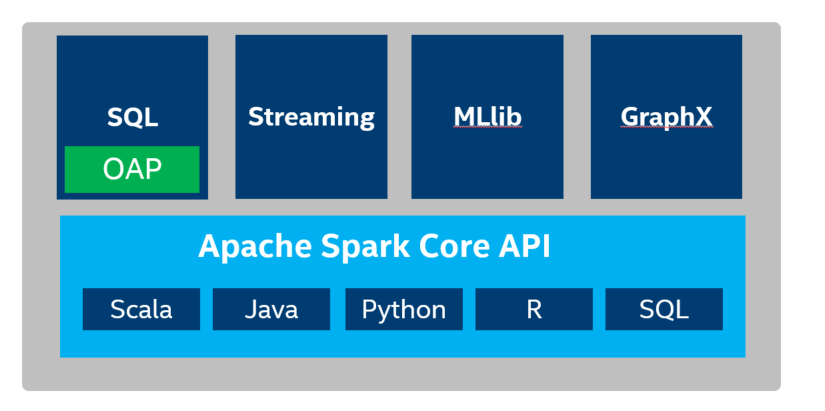
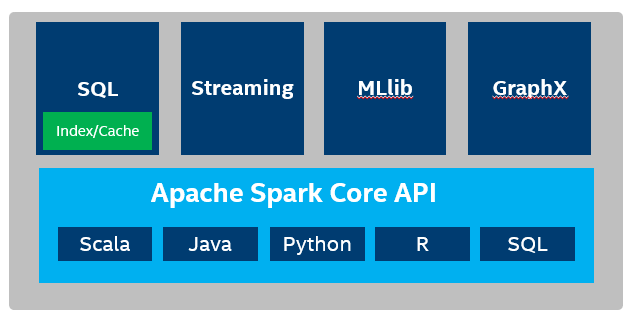
restructure documentation concepts

diff --git a/oap-cache/oap/docs/User-Guide.md b/oap-cache/oap/docs/User-Guide.md
@@ -1,40 +1,40 @@
-# OAP-Cache User Guide
+# User Guide
 
 * [Prerequisites](#Prerequisites)
-* [Getting Started with OAP-Cache](#Getting-Started-with-OAP-Cache)
+* [Getting Started](#Getting-Started)
 * [Configuration for YARN Cluster Mode](#Configuration-for-YARN-Cluster-Mode)
 * [Configuration for Spark Standalone Mode](#Configuration-for-Spark-Standalone-Mode)
-* [Working with OAP-Cache Index](#Working-with-OAP-Cache-Index)
-* [Working with OAP-Cache Cache](#Working-with-OAP-Cache-Cache)
-* [Run TPC-DS Benchmark for OAP-Cache Cache](#Run-TPC-DS-Benchmark-for-OAP-Cache)
+* [Working with SQL Index](#Working-with-SQL-Index)
+* [Working with SQL Data Source Cache](#Working-with-SQL-Data-Source-Cache)
+* [Run TPC-DS Benchmark](#Run-TPC-DS-Benchmark)
 
 
 ## Prerequisites
 
-OAP-Cache on Spark requires a working Hadoop cluster with YARN and Spark. Running Spark on YARN requires a binary distribution of Spark, which is built with YARN support. If you don't want to build Spark by yourself, we have pre-built [Spark-2.4.4](https://github.com/Intel-bigdata/spark/releases/download/v2.4.4-intel-oap-0.8/spark-2.4.4-bin-hadoop2.7-intel-oap-0.8.tgz ).
+SQL Index and Data Source Cache on Spark requires a working Hadoop cluster with YARN and Spark. Running Spark on YARN requires a binary distribution of Spark, which is built with YARN support. If you don't want to build Spark by yourself, we have pre-built [Spark-2.4.4](https://github.com/Intel-bigdata/spark/releases/download/v2.4.4-intel-oap-0.8/spark-2.4.4-bin-hadoop2.7-intel-oap-0.8.tgz ).
 
-## Getting Started with OAP-Cache
+## Getting Started
 
-### Building OAP-Cache
+### Building
 
-Download our pre-built OAP-Cache jar [oap-product-0.8.0-bin-spark-2.4.4.tar.gz](https://github.com/Intel-bigdata/OAP/releases/download/v0.8.0-spark-2.4.4/oap-product-0.8.0-bin-spark-2.4.4.tar.gz) to your working node, unzip it and put the jars to your working directory such as `/home/oap/jars/`, and put the `oap-common-0.8.0-with-spark-2.4.4.jar` to the directory `$SPARK_HOME/jars/`. If you’d like to build OAP-Cache from source code, please refer to [Developer Guide](Developer-Guide.md) for the detailed steps.
+Download our pre-built jar [oap-product-0.8.0-bin-spark-2.4.4.tar.gz](https://github.com/Intel-bigdata/OAP/releases/download/v0.8.0-spark-2.4.4/oap-product-0.8.0-bin-spark-2.4.4.tar.gz) to your working node, unzip it and put the jars to your working directory such as `/home/oap/jars/`, and put the `oap-common-0.8.0-with-spark-2.4.4.jar` to the directory `$SPARK_HOME/jars/`. If you’d like to build from source code, please refer to [Developer Guide](Developer-Guide.md) for the detailed steps.
 
-### Spark Configurations for OAP-Cache
+### Spark Configurations
 
 Users usually test and run Spark SQL or Scala scripts in Spark Shell,  which launches Spark applications on YRAN with ***client*** mode. In this section, we will start with Spark Shell then introduce other use scenarios. 
 
-Before you run ` . $SPARK_HOME/bin/spark-shell `, you need to configure Spark for OAP-Cache integration. You need to add or update the following configurations in the Spark configuration file `$SPARK_HOME/conf/spark-defaults.conf` on your working node.
+Before you run ` . $SPARK_HOME/bin/spark-shell `, you need to configure Spark for integration. You need to add or update the following configurations in the Spark configuration file `$SPARK_HOME/conf/spark-defaults.conf` on your working node.
 
 ```
 spark.sql.extensions              org.apache.spark.sql.OapExtensions
-# absolute path of OAP-Cache jar on your working node
+# absolute path of the jar on your working node
 spark.files                       /home/oap/jars/oap-cache-0.8.0-with-spark-2.4.4.jar
-# relative path of OAP-Cache jar
+# relative path of the jar
 spark.executor.extraClassPath     ./oap-cache-0.8.0-with-spark-2.4.4.jar
-# absolute path of OAP-Cache jar on your working node
+# absolute path of the jar on your working node
 spark.driver.extraClassPath       /home/oap/jars/oap-cache-0.8.0-with-spark-2.4.4.jar
 ```
-### Verify Spark with OAP-Cache Integration 
+### Verify Integration 
 
 After configuration, you can follow these steps to verify the OAP integration is working using Spark Shell.
 
@@ -65,7 +65,7 @@ This test creates an index for a table and then shows it. If there are no errors
 
 ## Configuration for YARN Cluster Mode
 
-Spark Shell, Spark SQL CLI and Thrift Sever run Spark application in ***client*** mode. While Spark Submit tool can run Spark application in ***client*** or ***cluster*** mode deciding by --deploy-mode parameter. [Getting Started with OAP-Cache](#Getting-Started-with-OAP-Cache) session has shown the configurations needed for ***client*** mode. If you are running Spark Submit tool in ***cluster*** mode, you need to follow the below configuration steps instead.
+Spark Shell, Spark SQL CLI and Thrift Sever run Spark application in ***client*** mode. While Spark Submit tool can run Spark application in ***client*** or ***cluster*** mode deciding by --deploy-mode parameter. [Getting Started](#Getting-Started) session has shown the configurations needed for ***client*** mode. If you are running Spark Submit tool in ***cluster*** mode, you need to follow the below configuration steps instead.
 
 Add the following OAP configuration settings to `$SPARK_HOME/conf/spark-defaults.conf` on your working node before running `spark-submit` in ***cluster*** mode.
 ```
@@ -92,7 +92,7 @@ spark.executor.extraClassPath      /home/oap/jars/oap-cache-0.8.0-with-spark-2.4
 spark.driver.extraClassPath        /home/oap/jars/oap-cache-0.8.0-with-spark-2.4.4.jar
 ```
 
-## Working with OAP-Cache Index
+## Working with SQL Index
 
 After a successful OAP integration, you can use OAP SQL DDL to manage table indexes. The DDL operations include `index create`, `drop`, `refresh`, and `show`. Test these functions using the following examples in Spark Shell.
 
@@ -118,7 +118,7 @@ Use SHOW OINDEX command to show all the created indexes on a specified table.
 ```
 > spark.sql("show oindex from oap_test").show()
 ```
-### Use OAP-Cache Index
+### Use Index
 
 Using index in a query is transparent. When SQL queries have filter conditions on the column(s) which can take advantage of the index to filter the data scan, the index will automatically be applied to the execution of Spark SQL. The following example will automatically use the underlayer index created on column "a".
 ```
@@ -131,9 +131,9 @@ Use DROP OINDEX command to drop a named index.
 ```
 > spark.sql("drop oindex index1 on oap_test")
 ```
-## Working with OAP-Cache Cache
+## Working with Data Source Cache
 
-OAP-Cache Cache can provide input data cache functionality to the executor. When using the cache data among different SQL queries, configure cache to allow different SQL queries to use the same executor process. Do this by running your queries through the Spark ThriftServer as shown below. For cache media, we support both DRAM and Intel DCPMM which means you can choose to cache data in DRAM or Intel DCPMM if you have DCPMM configured in hardware.
+Data Source Cache can provide input data cache functionality to the executor. When using the cache data among different SQL queries, configure cache to allow different SQL queries to use the same executor process. Do this by running your queries through the Spark ThriftServer as shown below. For cache media, we support both DRAM and Intel DCPMM which means you can choose to cache data in DRAM or Intel DCPMM if you have DCPMM configured in hardware.
 
 ### Use DRAM Cache 
 
@@ -160,7 +160,7 @@ OAP-Cache Cache can provide input data cache functionality to the executor. When
 
    Launch Spark Thrift Server, and use the Beeline command line tool to connect to the Thrift Server to execute DDL or DML operations. The data cache will automatically take effect for Parquet or ORC file sources. 
    
-   The rest of this section will show you how to do a quick verification of cache functionality. It will reuse the database metastore created in the [Working with OAP-Cache Index](#Working-with-OAP-Cache-Index) section, which creates the `oap_test` table definition. In production, Spark Thrift Server will have its own metastore database directory or metastore service and use DDL's through Beeline for creating your tables.
+   The rest of this section will show you how to do a quick verification of cache functionality. It will reuse the database metastore created in the [Working with Data Source Cache Index](#Working-with-SQL-Index) section, which creates the `oap_test` table definition. In production, Spark Thrift Server will have its own metastore database directory or metastore service and use DDL's through Beeline for creating your tables.
 
    When you run ```spark-shell``` to create the `oap_test` table, `metastore_db` will be created in the directory where you ran '$SPARK_HOME/bin/spark-shell'. Go to that directory and execute the following command to launch Thrift JDBC server.
 
@@ -251,7 +251,7 @@ The following are required to configure OAP to use DCPMM cache.
      make package
      sudo rpm -i libvmemcache*.rpm
 ```
-- OAP-Cache use Plasma as a node-level external cache service, the benefit of using external cache is data could be shared across process boundaries, you can refer to [Using-Plasma-As-Cache](./Using-Plasma-As-Cache.md) to enable this feature.  
+- Data Source Cache use Plasma as a node-level external cache service, the benefit of using external cache is data could be shared across process boundaries, you can refer to [Using-Plasma-As-Cache](./Using-Plasma-As-Cache.md) to enable this feature.  
 [Plasma](http://arrow.apache.org/blog/2017/08/08/plasma-in-memory-object-store/) is a high-performance shared-memory object store, it's a component of [Apache Arrow](https://github.com/apache/arrow). We have modified Plasma to support DCPMM, and open source on [Intel-bigdata Arrow](https://github.com/Intel-bigdata/arrow/tree/oap-master) repo.  You can run follow commands to install libarrow.so, libplasma.so, libplasma_java.so, plasma-store-server, arrow-plasma.jar to your machine:
     ```
     git clone https://github.com/Intel-bigdata/arrow.git
@@ -266,7 +266,7 @@ The following are required to configure OAP to use DCPMM cache.
     cd ../../java
     mvn clean -q -DskipTests install
     ``` 
-Or you can refer to [OAP-Cache-Developer-Guide](../../../docs/Developer-Guide.md), there is a shell script to help you install these dependencies automatically.
+Or you can refer to [Developer-Guide](../../../docs/Developer-Guide.md), there is a shell script to help you install these dependencies automatically.
 
 #### Configure for NUMA
 
@@ -293,7 +293,7 @@ Create `persistent-memory.xml` in `$SPARK_HOME/conf/` if it doesn't exist. Use t
 </persistentMemoryPool>
 ```
 
-#### Configure for Spark/OAP-Cache to enable DCPMM cache
+#### Configure to enable DCPMM cache
 
 Make the following configuration changes in `$SPARK_HOME/conf/spark-defaults.conf`.
 
@@ -383,7 +383,7 @@ spark.sql.oap.fiberCache.persistent.memory.initial.size  256g
 
 #### Vmemcache cache
 
-The vmemcache cache strategy is based on libvmemcache (buffer based LRU cache), which provides a key-value store API. Follow these steps to enable vmemcache support in OAP-Cache.
+The vmemcache cache strategy is based on libvmemcache (buffer based LRU cache), which provides a key-value store API. Follow these steps to enable vmemcache support in Data Source Cache.
 To use this strategy, follow [prerequisites](#prerequisites-1) to set up DCPMM hardware and vmemcache library correctly, then refer below configurations to apply vmemcache cache strategy in your workload.
 
 For Parquet data format, add these conf options:
@@ -437,7 +437,7 @@ spark.sql.oap.cache.external.client.pool.size              10
 
 ### Index/Data cache separation
 
-OAP-Cache now supports different cache strategies for DRAM and DCPMM. To optimize the cache media utilization, you can enable cache separation of data and index with same or different cache media. When Sharing same media, data cache and index cache will use different fiber cache ratio.
+Data Source Cache now supports different cache strategies for DRAM and DCPMM. To optimize the cache media utilization, you can enable cache separation of data and index with same or different cache media. When Sharing same media, data cache and index cache will use different fiber cache ratio.
 
 Here we list 4 different kinds of configs for index/cache separation, if you choose one of them, please add corresponding configs to `spark-defaults.conf`.
 1. DRAM(`offheap`) as cache media, `guava` strategy as index, and data cache back end. 
@@ -539,7 +539,7 @@ Verify NUMA binding status by confirming keywords like `numactl --cpubind=1 --me
 
 Check DCPMM cache size by checking disk space with `df -h`. For Guava/Non-evictable strategies, the command will show disk space usage increases along with workload execution. For vmemcache strategy, disk usage will reach the initial cache size once the DCPMM cache is initialized and will not change during workload execution.
 
-## Run TPC-DS Benchmark for OAP-Cache
+## Run TPC-DS Benchmark
 
 This section provides instructions and tools for running TPC-DS queries to evaluate the cache performance of various configurations. The TPC-DS suite has many queries and we select 9 I/O intensive queries to simplify performance evaluation.
 

diff --git a/oap-cache/oap/docs/Architect-Overview.md b/oap-cache/oap/docs/Architect-Overview.md
@@ -1,0 +1,97 @@
+# Architecture Overview
+
+
+* [Introduction](#introduction)
+* [Usage Scenarios](#Usage-Scenarios)
+* [Architecture](#architecture)
+* [Features](#Features)
+
+
+
+## Introduction
+
+Apache Spark is a unified analytics engine for large-scale data processing. Spark SQL* is the most popular component of Apache Spark* , and it is widely used to process large scale structured data in data center. However, Spark SQL still suffers from stability and performance challenges in a highly dynamic environment with ultra large scale data.
+
+SQL Index and Data Source Cache are designed to leverage user defined indices and smart fine-grained in-memory data caching for boosting Spark SQL performance, and can address the performance issues of some use cases.
+
+
+![OAP-INTRODUCTION](./image/OAP-Introduction.PNG)
+
+## Usage Scenarios
+
+### Usage Scenario 1 -- Interactive queries
+
+Most customers adopt Spark SQL as a batch processing engine. Unfortunately, customers would discover that it is too hard to separate batch processing and interactive use cases. Interactive queries need to return the data in seconds or even sub-seconds instead of the minutes or hours of batch processing. This is a difficult challenge for the current Spark SQL implementation.
+
+For example, the following interactive query attempts to filter out a very small result set from a huge fact table.
+
+```
+select query, term, userid, planid, unitid, winfoid, bmm_type, cmatch, charge, wctrl, target_url, audience_targeting_tag, is_url_targeting_adv, pluto_idea_type
+from basedata.fc_ad_wise
+where (event_day='20180701' and query='xxx' and winfoid='65648180412')
+limit 10
+```
+
+Interactive queries usually process a large data set but return a small portion of data filtering for a specific condition. By creating and storing a full B+ Tree index for key columns and using a smart fine-grained in-memory data caching strategy, we can boost Spark SQL interactive queries to seconds and even sub-seconds.
+
+By properly using index and cache, the performance of some interactive queries can possibly be improved by order of magnitude.
+
+### Usage Scenario 2 -- Batch processing jobs 
+
+Customers usually use Spark SQL for Business Analytics in Data Warehousing. SQL Data Source Cache can speed up batch processing jobs with 2 cache strategies:
+
+1. Automatically cache hot data.
+2. Specifically cache hot tables. 
+
+Users can choose either strategy based on their need.
+
+## Architecture
+
+The following diagram shows the design architecture.
+
+![ARCHITECTURE](./image/OAP-Architecture.PNG)
+
+SQL Index and Data Source Cache acts as a `.jar` plug-in for Spark SQL.
+
+- We designed the compatible adapter layer for three columnar storage file formats: 
+
+   1. parquet
+   2. orc
+   3. oap(parquet-like file format defined by OAP).
+
+   SQL Index and Data Source Cache have a ***Unified Cache Representation*** for different columnar storage formats and a fine-grained cache unit for one column of a RowGroup.
+
+- OAP's two major optimization functionalities (indexing and caching) are based on unified representation and the adapter. 
+   - Indices can be created on one or multiple columns of a data file. 
+   - Currently, Data Source Cache only caches decompressed and decoding data, and will support raw data in the future. Generally, the server's DRAM is used as the cache medium. [DCPMM](https://www.intel.com/content/www/us/en/architecture-and-technology/optane-dc-persistent-memory.html) can also be used as the cache medium as it will provide a more cost effective solution for the requirements of a high performance environment.
+
+- Both indexing and caching as ***Optimizer & Execution*** are transparent for users. See the [Features](#Features) section for details.
+
+- Spark ***ThriftServer***\* is a good use case for OAP, because ThriftServer launches Spark Applications which can cache hot data for a long time in the background, and it also accepts query requests from different clients at the same time. Of course, using bin/spark-sql, bin/spark-shell or bin/pyspark can also use OAP, but usually only for interactive test situations.
+
+## Features
+
+Use indexing and caching to improve Spark SQL performance on ad-hoc queries and batch processing jobs.
+
+### Indexing
+
+Users can use SQL DDL(create/drop/refresh/check/show index) to use indexing. Once users create indices using DDL, index files mainly composed of index data and statistics will be generated in a specific directory. When queries are executed, analyzing index files for boost performance is transparent to users.
+
+- BTREE, BITMAP Index is an optimization that is widely used in traditional databases. We also adopt these two index types in the project. BTREE indexing is intended for datasets that have a lot of distinct values, and are distributed randomly, such as telephone numbers or ID numbers. BitMap index is intended for datasets with a limited total amount of distinct values, such as state or age.
+
+- Statistics are located in the Index file, after all the index data are written into the index file. Sometimes, reading indices could bring extra cost for some queries. So we also support four statistics (MinMax, Bloom Filter, SampleBase and PartByValue) to help filter. With statistics, we can make sure we only use indices if we can possibly improve the execution.
+
+### Caching
+
+Caching is another core feature of OAP. It is also transparent to users. Data Source Cache can automatically load frequently queried (hot) data, and evict data automatically according to the LRU policy when cache is full. Data Source Cache has the following characteristics:
+
+- Off-Heap memory. The Data Source Cache uses off-heap memory and avoids the JVM GC. It can also use [DCPMM](https://www.intel.com/content/www/us/en/architecture-and-technology/optane-dc-persistent-memory.html) as high-performance, high-capacity, low-cost memory
+- Cache-Locality. Data Source Cache can schedule computing tasks to the executor which holds needed data in cache, by implementing a cache aware mechanism based on Spark driver and executors communication.
+- Cache granularity. A column in one RowGroup (equivalent to Stripe in ORC) of a column-oriented storage format file is loaded into a basic cache unit which is called a "Fiber" in OAP.
+- Cache Eviction. Data Source Cache cache eviction uses LRU policy, and automatically caches and evicts data transparently to end user.
+- Cache configured tables. Data Source Cache also supports caching specific tables by configuring items according to actual situations, these tables are usually hot tables.
+
+
+
+
+

diff --git a/oap-cache/oap/docs/Developer-Guide.md b/oap-cache/oap/docs/Developer-Guide.md
@@ -1,14 +1,14 @@
-# OAP-Cache Developer Guide
+# Developer Guide
 
-* [Build OAP-Cache](#Build-OAP-Cache)
+* [Build](#Build)
 * [Integrate with Spark\*](#integrate-with-spark)
 * [Enable NUMA binding for Intel® Optane™ DC Persistent Memory in Spark](#enable-numa-binding-for-dcpmm-in-spark)
 
-## Build OAP-Cache
+## Build
 
 #### Build
 
-OAP-Cache is built using [Apache Maven\*](http://maven.apache.org/).
+Build with using [Apache Maven\*](http://maven.apache.org/).
 
 Clone the OAP project:
 
@@ -17,7 +17,7 @@ git clone -b branch-0.8-spark-2.4.x  https://github.com/Intel-bigdata/OAP.git
 cd OAP
 ```
 
-Build the OAP-Cache package:
+Build the package:
 
 ```
 mvn clean -pl com.intel.oap:oap-cache -am package
@@ -33,9 +33,9 @@ Run a specific test suite, for example `OapDDLSuite`:
 ```
 mvn -DwildcardSuites=org.apache.spark.sql.execution.datasources.oap.OapDDLSuite test
 ```
-**NOTE**: Log level of OAP-Cache unit tests currently default to ERROR, please override oap-cache/oap/src/test/resources/log4j.properties if needed.
+**NOTE**: Log level of unit tests currently default to ERROR, please override oap-cache/oap/src/test/resources/log4j.properties if needed.
 
-#### Build OAP-Cache with Intel® Optane™ DC Persistent Memory Module
+#### Build with Intel® Optane™ DC Persistent Memory Module
 
 Follow these steps:
 
@@ -65,15 +65,15 @@ mvn clean -q -pl com.intel.oap:oap-cache -am  -Ppersistent-memory -Pvmemcache -D
 
 ## Integrate with Spark
 
-Although OAP-Cache acts as a plug-in JAR to Spark, there are still a few tricks to note when integrating with Spark. The OAP team explored using the Spark extension & data source API to deliver its core functionality. However, the limits of the Spark extension and data source API meant that we had to make some changes to Spark internals. As a result you must check whether your installation is an unmodified Community Spark or a customized Spark.
+Although SQL Index and Data Source Cache act as a plug-in JAR to Spark, there are still a few tricks to note when integrating with Spark. The OAP team explored using the Spark extension & data source API to deliver its core functionality. However, the limits of the Spark extension and data source API meant that we had to make some changes to Spark internals. As a result you must check whether your installation is an unmodified Community Spark or a customized Spark.
 
 #### Integrate with Community Spark
 
-If you are running a Community Spark, things will be much simpler. Refer to [OAP-Cache User Guide](OAP-Cache-User-Guide.md) to configure and setup Spark to work with OAP.
+If you are running a Community Spark, things will be much simpler. Refer to [User Guide](User-Guide.md) to configure and setup Spark to work with OAP.
 
 #### Integrate with customized Spark
 
-In this case check whether the OAP-Cache changes to Spark internals will conflict with or override your private changes. 
+In this case check whether the OAP changes to Spark internals will conflict with or override your private changes. 
 
 - If there are no conflicts or overrides, the steps are the same as the steps of unmodified version of Spark described above. 
 - If there are conflicts or overrides, develop a merge plan of the source code to make sure the code changes you made in to the Spark source appear in the corresponding file included in OAP the project. Once merged, rebuild OAP.

diff --git a/oap-cache/oap/docs/Using-Plasma-As-Cache.md b/oap-cache/oap/docs/Using-Plasma-As-Cache.md
@@ -1,4 +1,4 @@
-# OAP- How to use Plasma as cache
+# OAP- How to use Plasma
 ## Introduction
 - OAP use Plasma as a node-level external cache service, the benefit of using external cache is data can be shared across process boundaries. [Plasma](http://arrow.apache.org/blog/2017/08/08/plasma-in-memory-object-store/) is a high-performance shared-memory object store, it's a component of [Apache Arrow](https://github.com/apache/arrow). We have modified Plasma to support Intel Optane PMem, and open source on [Intel-bigdata Arrow](https://github.com/Intel-bigdata/arrow/tree/oap-master) repo. Plasma cache Architecture shown as following figure. A Spark executor contains one or more Plasma client, clients communicate with Plasma Store server via unix domain socket on local node, data can be shared through shared memory across multi executors. Data will be cached in shared memory first, and plasma store will evict data to Intel Optane PMem since PMem has larger capacity.   
  
@@ -35,7 +35,7 @@ sudo make install -j$(nproc)
 ```
 
 #### arrow-plasma-0.17.0.jar  
-   change to arrow repo java direction, run following command, this will install arrow jars to your local maven repo, and you can compile oap-cache package now. Beisdes, you need copy arrow-plasma-0.17.0.jar to `$SPARK_HOME/jars/` dir, cause this jar is needed when using external cache.
+   change to arrow repo java direction, run following command, this will install arrow jars to your local maven repo, and you can compile oap-cache module package now. Beisdes, you need copy arrow-plasma-0.17.0.jar to `$SPARK_HOME/jars/` dir, cause this jar is needed when using external cache.
    
 ```
 cd $ARROW_REPO_DIR/java
@@ -45,7 +45,7 @@ mvn clean -q -pl plasma -DskipTests install
 ## How to Run Spark-sql with Plasma
 
 ### config files:
-Follow [User guide](OAP-Cache-User-Guide.md), and you should update config file `spark-default.conf` as follow:
+Follow [User guide](User-Guide.md), and you should update config file `spark-default.conf` as follow:
 
 For Parquet data format, provides the following conf options:
 

diff --git a/oap-cache/README.md b/oap-cache/README.md
@@ -1,0 +1,11 @@
+# SQL Index and Data Source Cache
+
+SQL Index and Data Source Cache is an optimized plug-in package designed to accelerate Spark SQL\* performance by using index and cache technology at the Spark* SQL data source layer. Indexing can improve Spark interactive query performance by as much as an order of magnitude, and caching delivers additional Spark* SQL query performance benefits. We support both DRAM and Intel® Optane™ Persistent Memory as cache media.
+
+Please refer to these documents for more information:
+
+* [Architecture Overview](oap/docs/Architect-Overview.md)
+* [User Guide](oap/docs/User-Guide.md)
+* [Developer Guide](oap/docs/Developer-Guide.md)
+
+\*Other names and brands may be claimed as the property of others.

diff --git a/oap-cache/oap/README.md b/oap-cache/oap/README.md
@@ -4,8 +4,8 @@ SQL Index and Data Source Cache is an optimized plug-in package designed to acce
 
 Please refer to these documents for more information:
 
-* [Architecture Overview](./docs/OAP-Cache-Architect-Overview.md)
-* [User Guide](./docs/OAP-Cache-User-Guide.md)
+* [Architecture Overview](docs/Architect-Overview.md)
+* [User Guide](docs/User-Guide.md)
 * [Developer Guide](./docs/Developer-Guide.md)
 
 \*Other names and brands may be claimed as the property of others.
